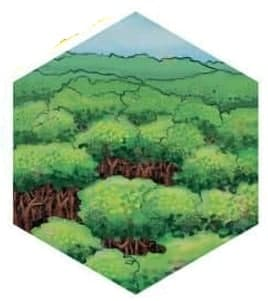
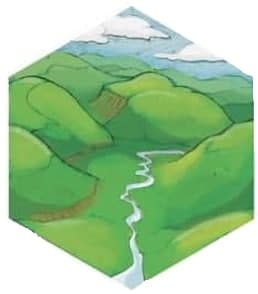
Add background to board

diff --git a/Catan/hexboard.cpp b/Catan/hexboard.cpp
@@ -38,13 +38,12 @@ Hex *HexBoard::createSetHex(int x, int y, hexType type) {
     hexes.append(hex);
 
     // set picture
-    QImage image(":/Imeges/C:/Users/Zbook/Downloads/Telegram Desktop/photo_2021-07-13_17-24-19.jpg");
+    QImage image(getPicture(type));
     image = image.scaled(150, 120, Qt::KeepAspectRatio);
     QBrush* brush = new QBrush(image);
     brush->setStyle(Qt::TexturePattern);
 
     hex->setBrush(*brush);
-
 
     // add poly to scene
     game->scene->addItem(hex);
@@ -60,20 +59,21 @@ void HexBoard::createHexRow(int x, int y, int numOfColumns) {
 
 QString HexBoard::getPicture(hexType type) {
     if (type == wood) {
-        return QString("");
+        return QString(":/images/Resources/wood.jpg");
 
     } else if (type == brick) {
-        return QString("");
+        return QString(":/images/Resources/brick.jpg");
+
     } else if (type == wheat) {
-        return QString("");
+        return QString(":/images/Resources/wheat.jpg");
 
     } else if (type == sheep) {
-        return QString("");
+        return QString(":/images/Resources/sheep.jpg");
 
     } else if (type == rock) {
-        return QString("");
+        return QString(":/images/Resources/rock.jpg");
 
-    } else {
+    } else if (1){
         return NULL;
     }
 }

diff --git a/Catan/game.cpp b/Catan/game.cpp
@@ -9,7 +9,7 @@ Game::Game(QWidget *parent) {
     setFixedSize(1024, 768);
 
     // set up back ground
-    setBackgroundBrush(QBrush(QImage(":/Imeges/C:/Users/Zbook/Downloads/back-ground-light-blue.jpg")));
+    setBackgroundBrush(QBrush(QImage(":/images/Resources/back-ground-light-blue.jpg")));
 
     // set up the scene
     scene = new QGraphicsScene();
